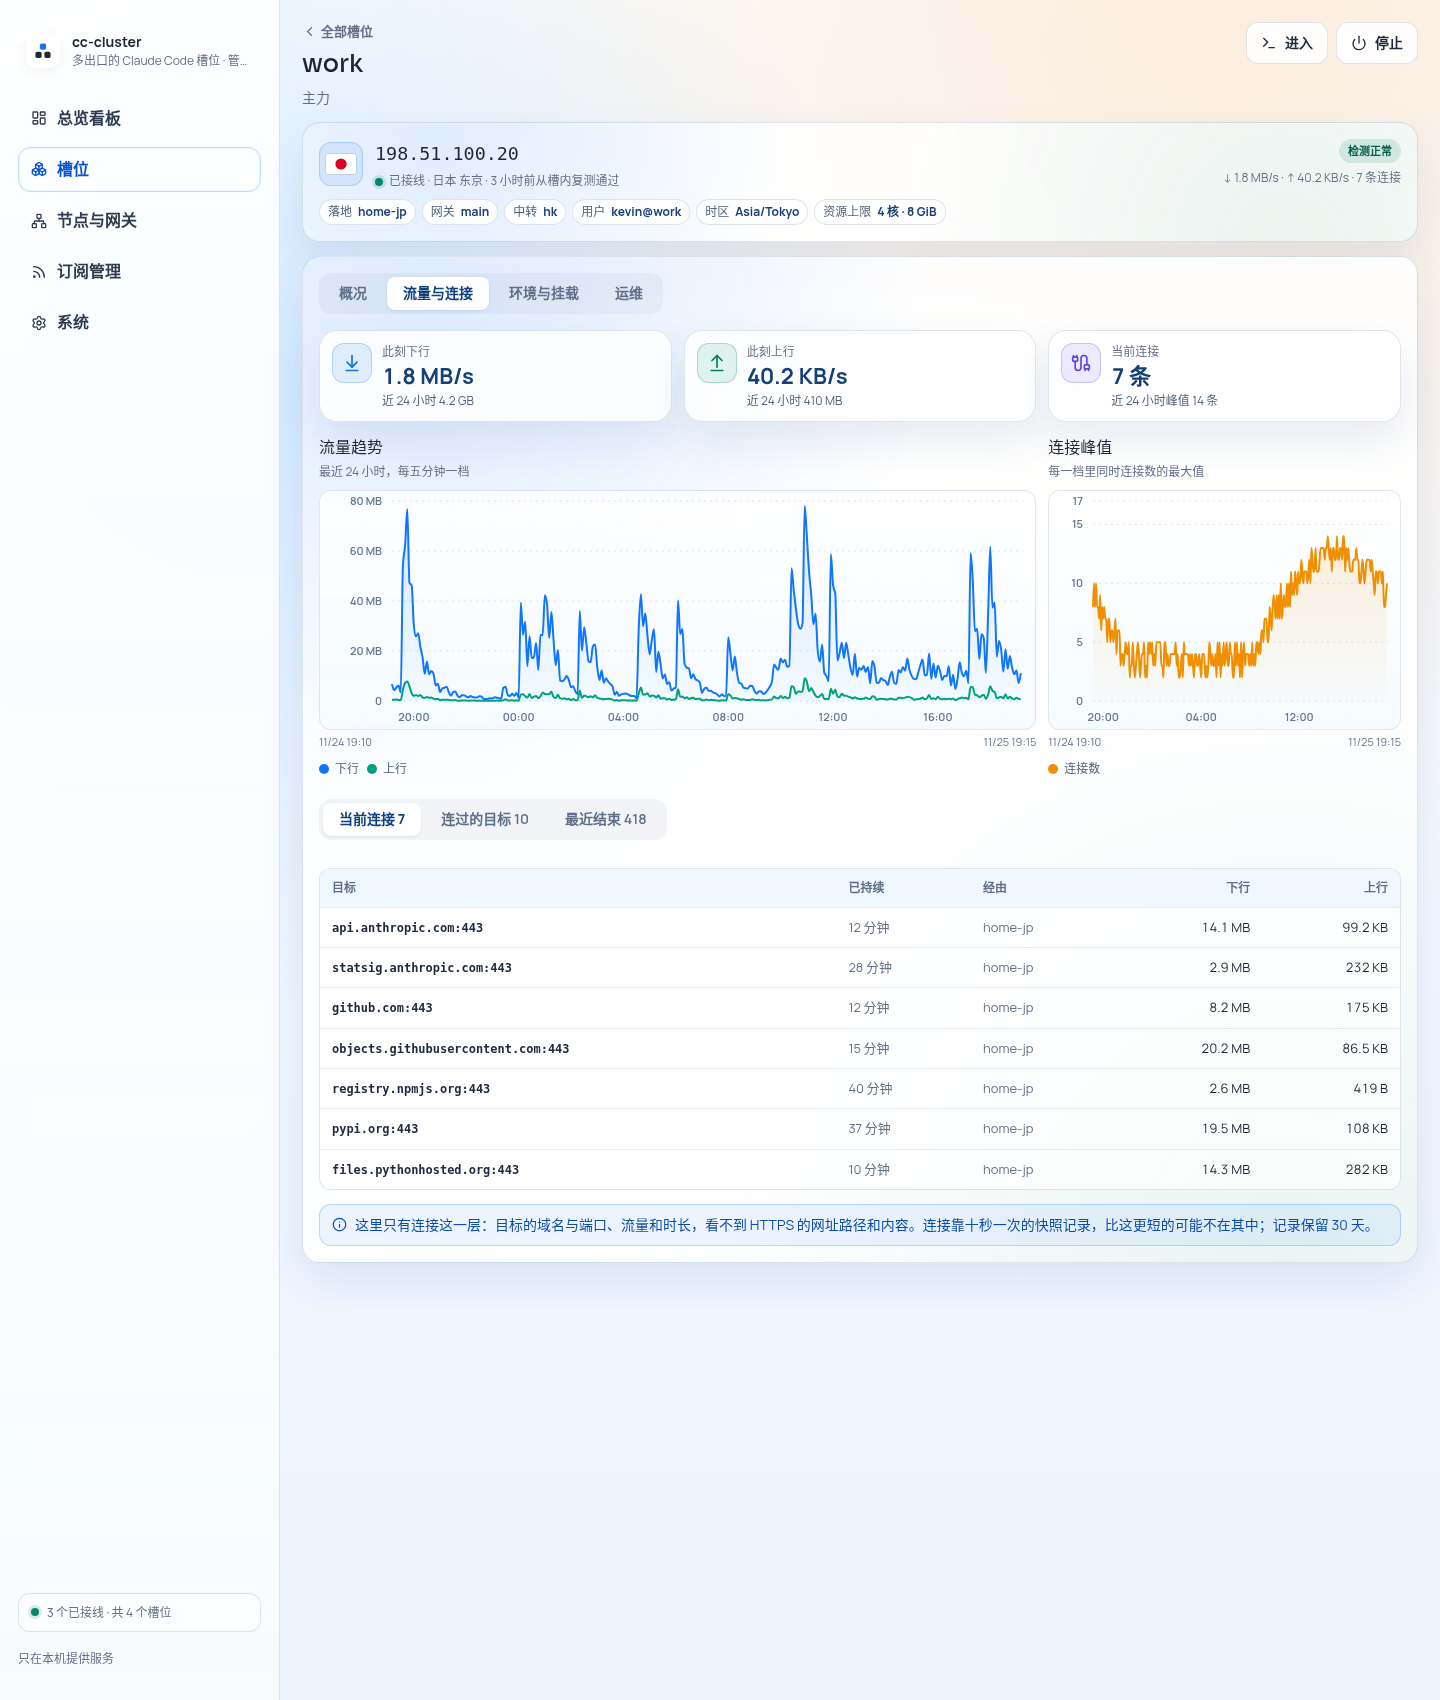
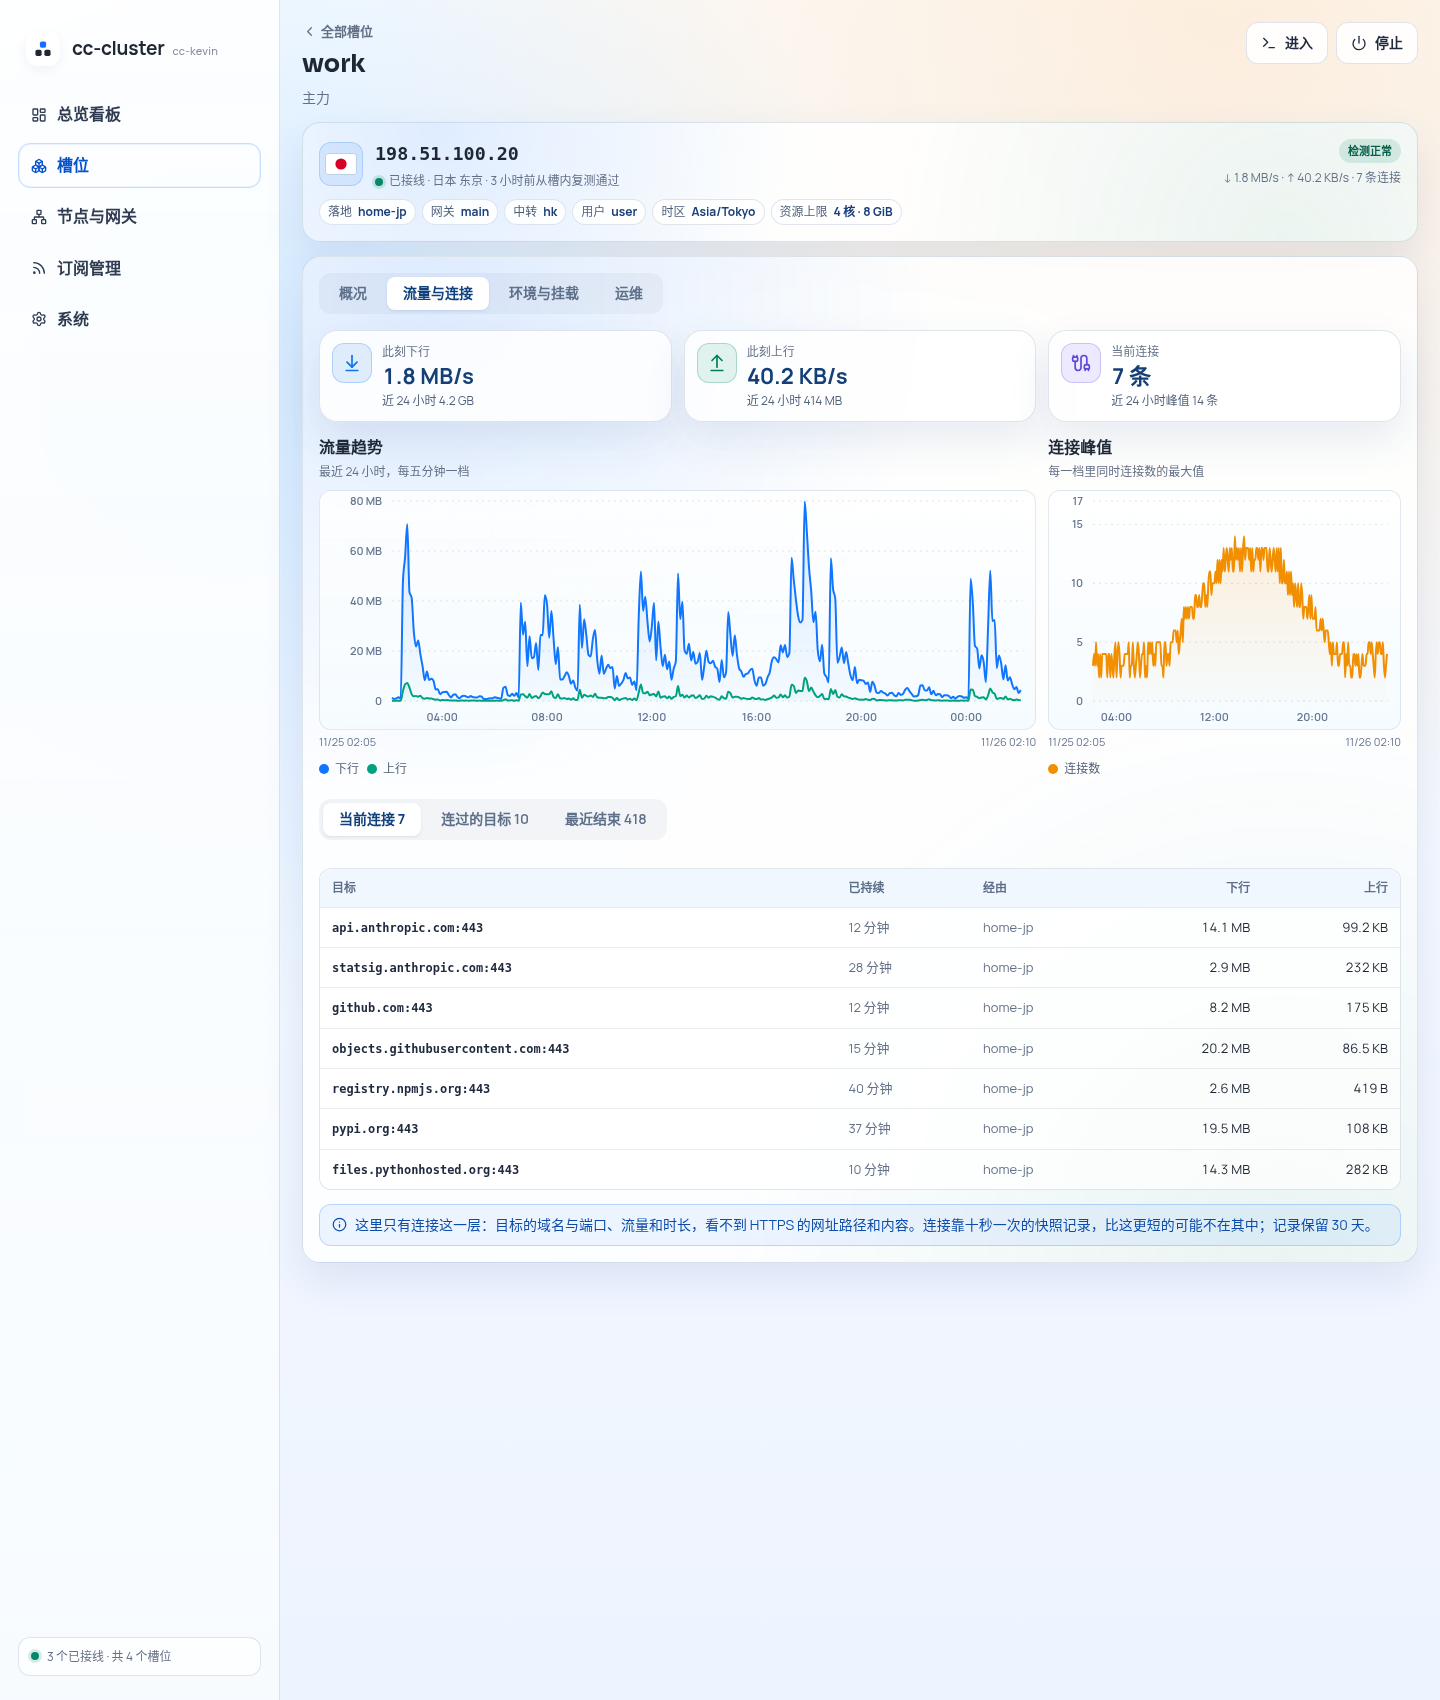
fix(web): 页面标题加粗，侧栏只留放大的 cc-cluster，用户名与主机名分开显示
Tailwind 的基础样式把标题的粗体重置成了继承，Resin 的样式表原本靠浏览器默认值，这里补回来。README 的截图随之重拍，演示数据改用 scripts/preview.mjs 的那一份。CHANGELOG 加上未发布一段。

diff --git a/web/src/pages/SlotsPage.tsx b/web/src/pages/SlotsPage.tsx
@@ -430,7 +430,7 @@ function SlotDetail({ s, state, live, history, busy, a, alerts, onBack }: Detail
             <Fact k="落地">{s.landing}</Fact>
             {landing?.direct ? <Fact k="出口方式">直出</Fact> : <Fact k="网关">{s.gateway}</Fact>}
             {gateway?.transit && <Fact k="中转">{gateway.transit}</Fact>}
-            <Fact k="用户">{s.user}@{s.hostname}</Fact>
+            <Fact k="用户">{s.user}</Fact>
             <Fact k="时区">{s.tz || "UTC"}</Fact>
             {limits && <Fact k="资源上限">{limits}</Fact>}
           </div>
@@ -463,7 +463,7 @@ function SlotDetail({ s, state, live, history, busy, a, alerts, onBack }: Detail
                 </div>
               </div>
               <div className="chain">
-                <Hop label="槽位" name={s.id} sub={`${s.user}@${s.hostname}`} />
+                <Hop label="槽位" name={s.id} sub={s.user} />
                 {arrow}
                 <Hop label="网关" name={s.gateway} sub={gatewayText} />
                 {gateway?.transit && <>{arrow}<Hop label="中转" name={gateway.transit} /></>}
@@ -506,7 +506,8 @@ function SlotDetail({ s, state, live, history, busy, a, alerts, onBack }: Detail
               <p>槽里的程序看到的身份与硬件信息。</p>
             </div>
             <div className="kv-grid">
-              <div className="kv"><span>用户</span><strong className="mono">{s.user}@{s.hostname}</strong></div>
+              <div className="kv"><span>用户</span><strong className="mono">{s.user}</strong></div>
+              <div className="kv"><span>主机名</span><strong className="mono">{s.hostname}</strong></div>
               <div className="kv"><span>HOME</span><strong className="mono">{s.home}</strong></div>
               <div className="kv">
                 <span>时区</span>
@@ -528,7 +529,7 @@ function SlotDetail({ s, state, live, history, busy, a, alerts, onBack }: Detail
 
             <div className="platform-drawer-section-head mt-2">
               <h4>挂载的目录</h4>
-              <p>槽内使用和宿主相同的路径。</p>
+              <p>槽内路径与宿主相同，~ 下有同名的快捷方式。</p>
             </div>
             {s.mounts.length === 0 ? (
               <div className="empty-box plain"><p>没有挂载项目目录；在项目目录里运行进入命令时会询问是否挂载。</p></div>

diff --git a/web/src/components/AppShell.tsx b/web/src/components/AppShell.tsx
@@ -50,7 +50,6 @@ export function AppShell({ activePage, onPageChange, cluster, status, children }
               <p className="brand-title">cc-cluster</p>
               {cluster && cluster !== "cc-cluster" && <span className="brand-version" title={cluster}>{cluster}</span>}
             </div>
-            <p className="brand-subtitle">多出口的 Claude Code 槽位 · 管理面板</p>
           </div>
         </div>
 
@@ -73,9 +72,6 @@ export function AppShell({ activePage, onPageChange, cluster, status, children }
           <div className="sidebar-status">
             <span className={cn("status-dot", status?.ready && "ok")} />
             <span>{status ? `${status.ready} 个已接线 · 共 ${status.total} 个槽位` : "读取中…"}</span>
-          </div>
-          <div className="sidebar-tools">
-            <span className="sidebar-hint">只在本机提供服务</span>
           </div>
         </div>
       </aside>

diff --git a/web/src/styles/app.css b/web/src/styles/app.css
@@ -71,7 +71,22 @@ button:not(:disabled),
   font-variant-numeric: tabular-nums;
 }
 
+/* Resin 的标题靠浏览器默认的粗体；Tailwind 的基础样式把它重置成了继承，这里补回来。 */
+h1,
+h2,
+h3,
+h4,
+h5,
+h6 {
+  font-weight: 700;
+}
+
 /* ── 外壳 ── */
+.brand-title {
+  font-size: 19px;
+  letter-spacing: -0.01em;
+}
+
 .nav-item {
   width: 100%;
   background: transparent;

diff --git a/CHANGELOG.md b/CHANGELOG.md
@@ -4,6 +4,14 @@
 
 One section per release, newest first. Versions follow `vMAJOR.MINOR.PATCH`; pre-releases look like `v0.1.0-alpha.1` or `v1.0.0-rc.1`.
 
+## 未发布 / Unreleased
+
+- 网页界面：各页的标题加粗；侧栏左上角只留放大的 `cc-cluster`，去掉副标题和底部的“只在本机提供服务”；槽位详情里用户名与主机名分开显示。
+- 新增 `scripts/preview.sh`：用编出来的数据预览界面，不需要 Docker。`scripts/web.sh` 接受 `--data-dir`。
+
+- Web UI: page titles are bold again; the sidebar header shows only a larger `cc-cluster`, without the tagline or the "local only" footer; the slot detail shows username and hostname separately.
+- New `scripts/preview.sh` previews the UI with made-up data, no Docker needed. `scripts/web.sh` accepts `--data-dir`.
+
 ## v0.0.1
 
 第一个带版本号的发布。此前只有随 `master` 滚动的 `nightly` 构建，现已停用。
